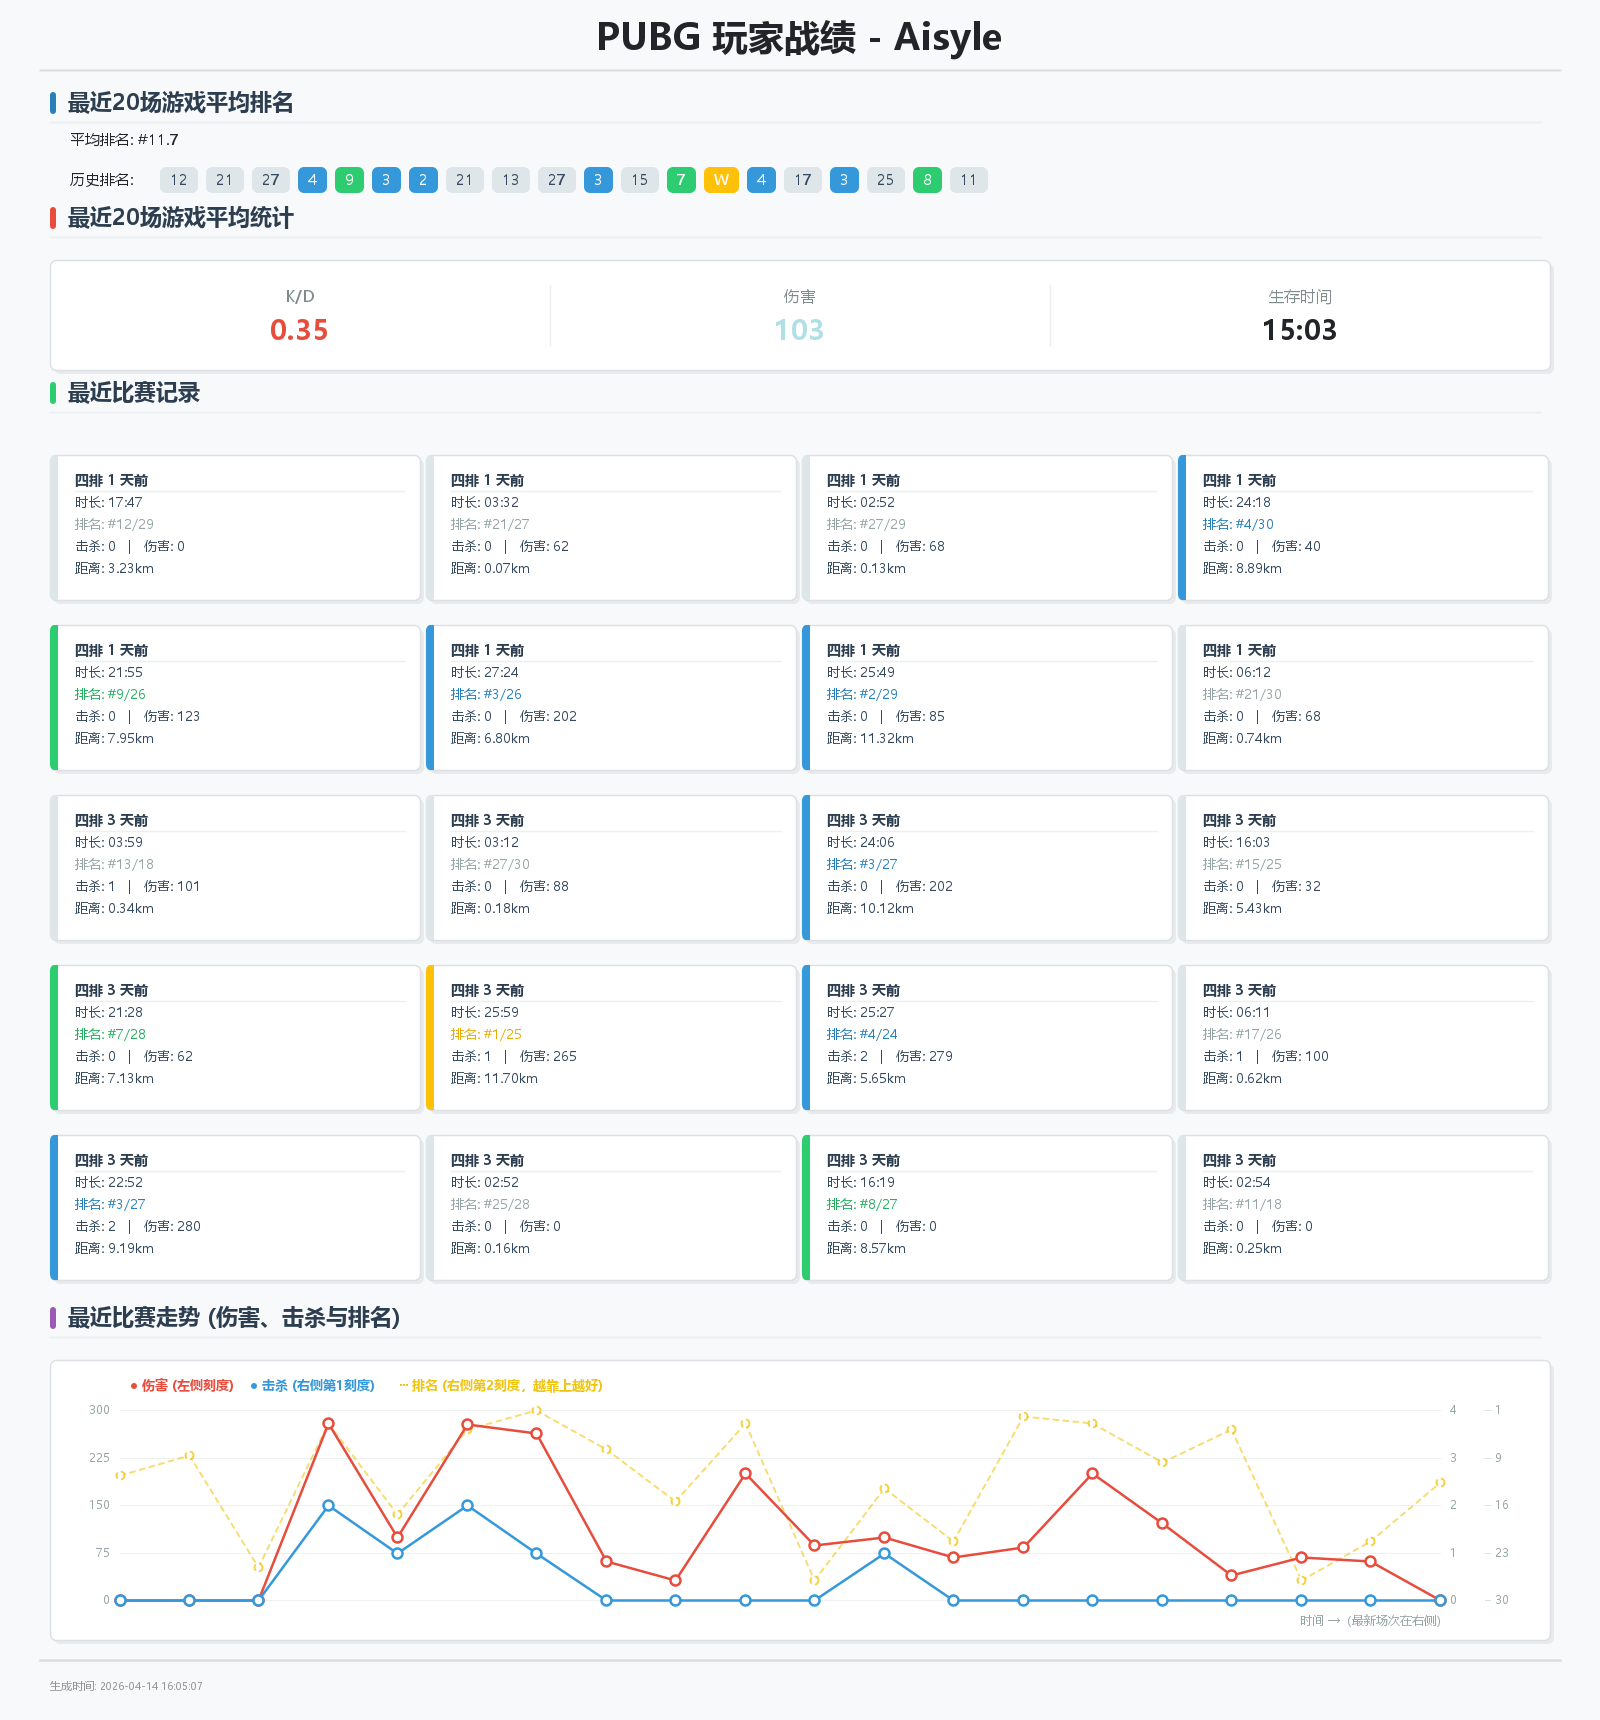
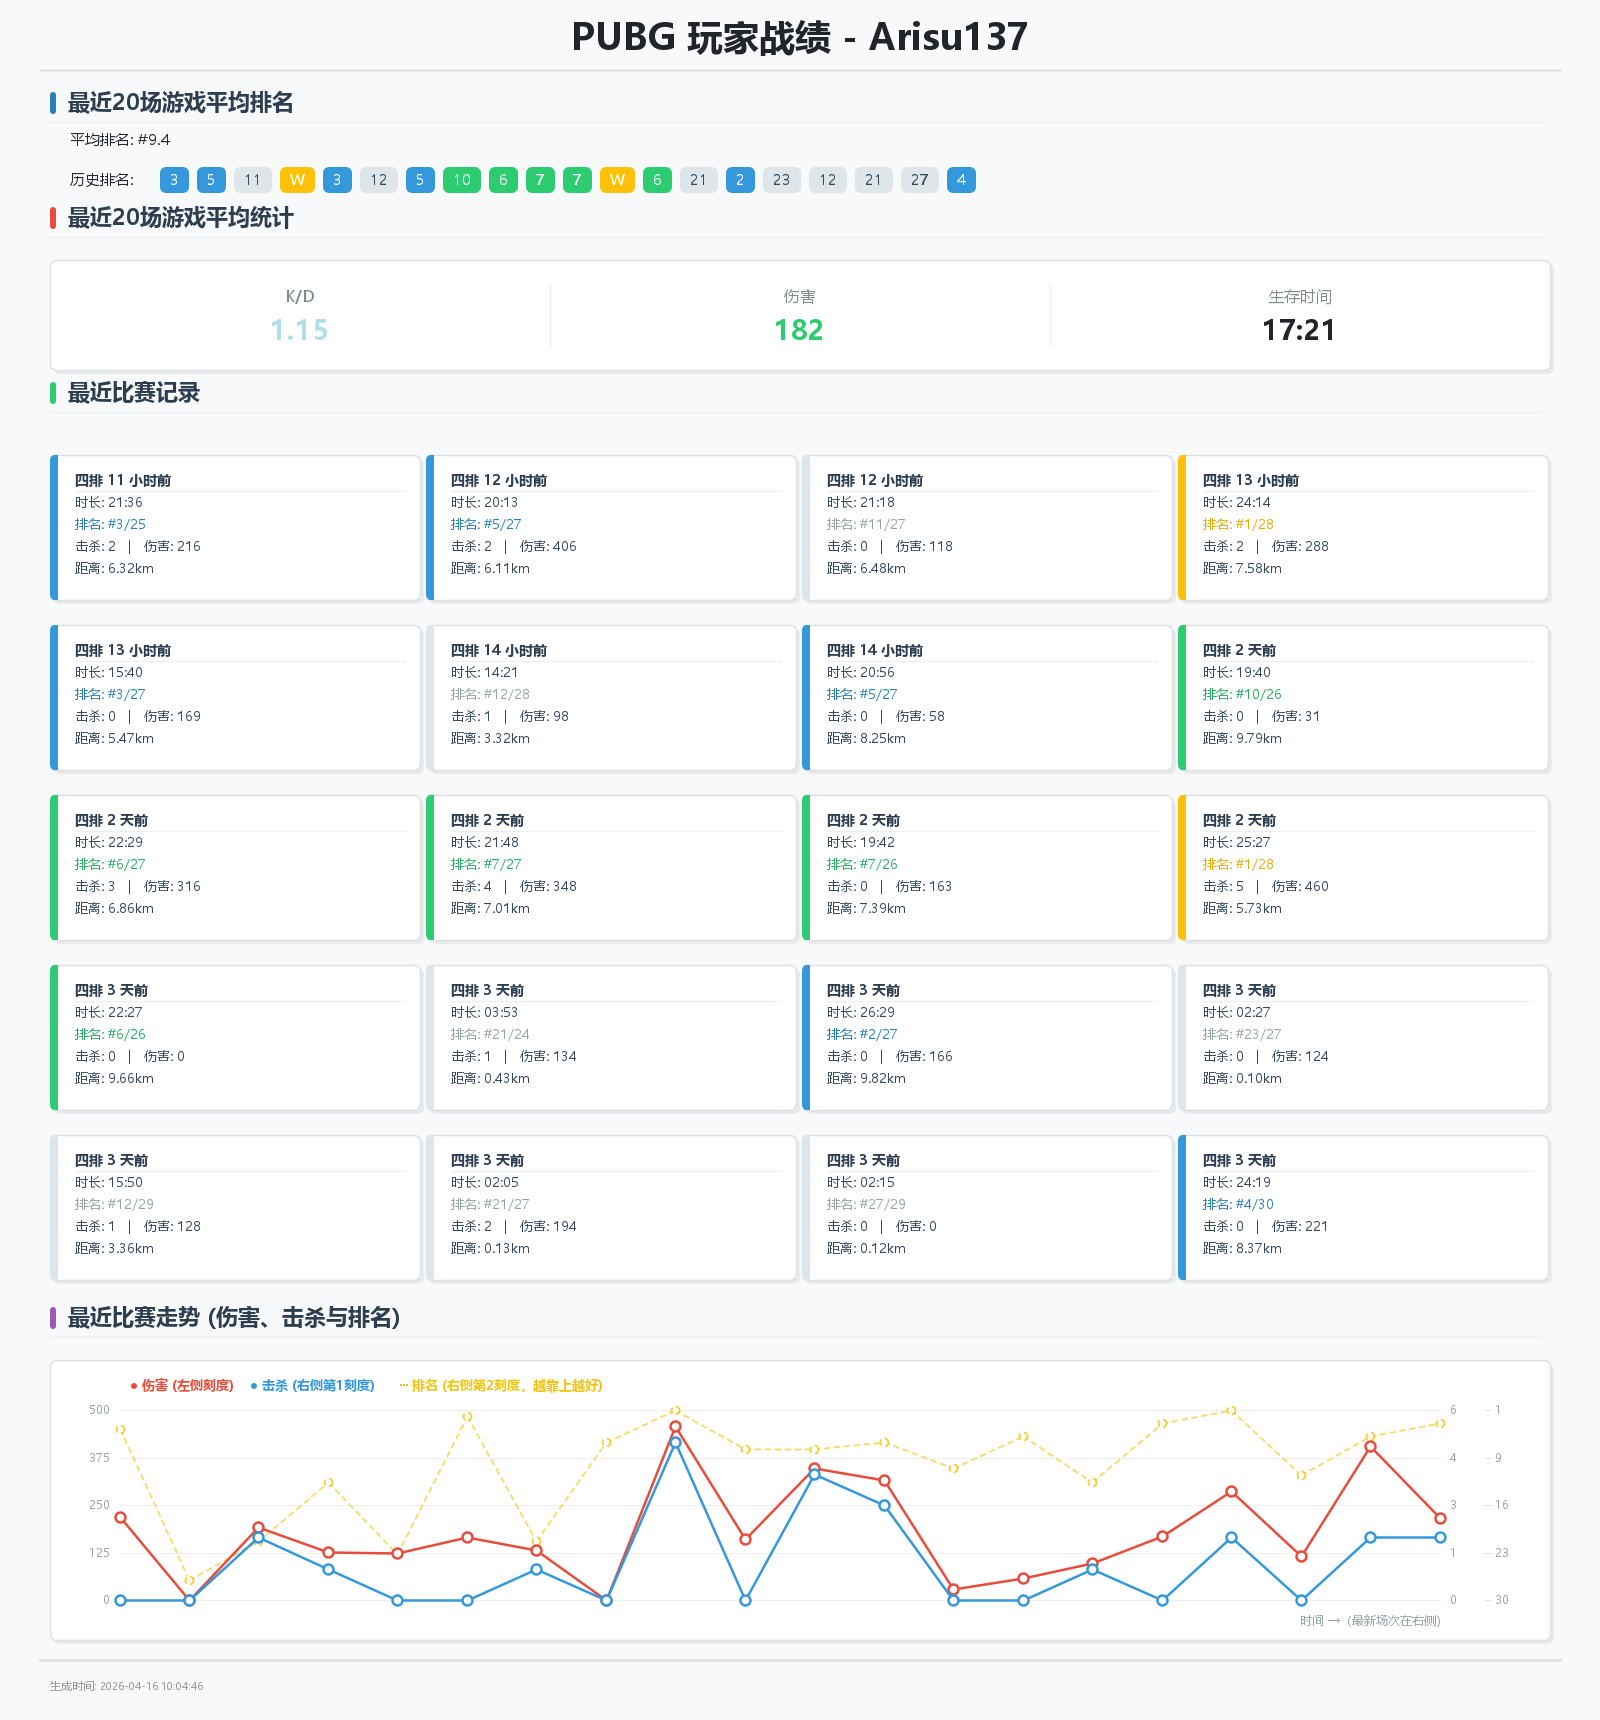
pubg战绩查询增加预刷新功能，SchHuman移除了发送文本功能

diff --git a/src/main/java/LDS/Person/util/PubgGet/PubgUserInfoWithSelenium.java b/src/main/java/LDS/Person/util/PubgGet/PubgUserInfoWithSelenium.java
@@ -153,6 +153,44 @@ public class PubgUserInfoWithSelenium {
     }
 
     /**
+     * 页面打开后每秒轮询查找 renewBtn，找到后点击并等待页面刷新。
+     */
+    private static void pollAndClickRenewButton(WebDriver driver, int maxPollingSeconds) {
+        System.out.println("开始轮询查找 renewBtn 按钮...");
+
+        for (int i = 0; i < maxPollingSeconds; i++) {
+            try {
+                List<WebElement> renewButtons = driver.findElements(By.id("renewBtn"));
+                if (!renewButtons.isEmpty()) {
+                    WebElement renewBtn = renewButtons.get(0);
+                    if (renewBtn.isDisplayed() && renewBtn.isEnabled()) {
+                        renewBtn.click();
+                        System.out.println("已点击 renewBtn，等待页面刷新...");
+                        Thread.sleep(2500);
+                        return;
+                    }
+                }
+
+                Thread.sleep(1000);
+            } catch (InterruptedException e) {
+                Thread.currentThread().interrupt();
+                System.out.println("轮询 renewBtn 被中断，继续后续流程");
+                return;
+            } catch (Exception e) {
+                System.out.println("轮询 renewBtn 时出现异常，继续轮询: " + e.getMessage());
+                try {
+                    Thread.sleep(1000);
+                } catch (InterruptedException interruptedException) {
+                    Thread.currentThread().interrupt();
+                    return;
+                }
+            }
+        }
+
+        System.out.println("未检测到 renewBtn，继续后续流程");
+    }
+
+    /**
      * 生成PUBG用户信息图表
      */
     private static String generateAndSavePubgChart(PubgUserStats stats, String imgFolder) {
@@ -684,7 +722,7 @@ public class PubgUserInfoWithSelenium {
             // 配置Edge选项
             EdgeOptions options = new EdgeOptions();
             // 可选：添加无头模式（不显示浏览器窗口）
-            options.addArguments("--headless");
+            // options.addArguments("--headless");
             options.addArguments("--no-sandbox");
             options.addArguments("--disable-dev-shm-usage");
             options.addArguments("--disable-blink-features=AutomationControlled");
@@ -695,6 +733,9 @@ public class PubgUserInfoWithSelenium {
             String url = BASE_URL + username;
             System.out.println("开始访问: " + url);
             driver.get(url);
+
+            // 页面打开后先轮询 renewBtn，若存在则点击触发刷新
+            pollAndClickRenewButton(driver, 30);
 
             // 等待页面加载完成（等待AWS WAF验证完成）
             // 等待challenge页面消失或数据加载完成
@@ -747,7 +788,7 @@ public class PubgUserInfoWithSelenium {
     public static void main(String[] args) {
         System.out.println("========== PUBG用户信息获取 (使用Selenium) ==========\n");
 
-        String username = "Yukiyuki_My_Wife";
+        String username = "Arisu137";
         System.out.println("正在获取用户: " + username);
         System.out.println("请耐心等待，浏览器会自动打开并完成验证...\n");
 

diff --git a/src/main/java/LDS/Person/tasks/MsgSchHumanTask.java b/src/main/java/LDS/Person/tasks/MsgSchHumanTask.java
@@ -82,23 +82,33 @@ public class MsgSchHumanTask {
                 System.out.println("[MsgSchTask] ！！！触发随机对话任务，当前时间: " + currentTime);
                 System.out.println("[MsgSchTask] lastGroupId = " + TaskFactory.getLastActiveGroupId());
 
-                // 50% 概率触发随机对话，50% 概率触发随机图片
-                boolean sendChat = random.nextBoolean();
-                if (sendChat) {
-                    // 触发随机对话
-                    System.out.println("[MsgSchTask]  选择发送随机对话");
-                    randomChatLogic.generateAndSendRandomChat();
+                // 50% 概率触发随机对话，50% 概率触发随机图片============================================
+                // boolean sendChat = random.nextBoolean();
+                // if (sendChat) {
+                // // 触发随机对话
+                // System.out.println("[MsgSchTask] 选择发送随机对话");
+                // randomChatLogic.generateAndSendRandomChat();
+                // } else {
+                // // 触发随机图片
+                // System.out.println("[MsgSchTask] 选择发送随机图片");
+                // String groupId = TaskFactory.getLastActiveGroupId();
+                // System.out.println("[MsgSchTask] 准备发送图片，groupId = " + groupId);
+                // if (groupId != null && !groupId.isEmpty()) {
+                // keywordTriggerLogic.triggerRandomImage(Long.parseLong(groupId));
+                // } else {
+                // System.out.println("[MsgSchTask] groupId 为空，跳过发送图片");
+                // }
+                // }
+                // 触发随机图片=========================================================================
+                System.out.println("[MsgSchTask]  选择发送随机图片");
+                String groupId = TaskFactory.getLastActiveGroupId();
+                System.out.println("[MsgSchTask] 准备发送图片，groupId = " + groupId);
+                if (groupId != null && !groupId.isEmpty()) {
+                    keywordTriggerLogic.triggerRandomImage(Long.parseLong(groupId));
                 } else {
-                    // 触发随机图片
-                    System.out.println("[MsgSchTask]  选择发送随机图片");
-                    String groupId = TaskFactory.getLastActiveGroupId();
-                    System.out.println("[MsgSchTask] 准备发送图片，groupId = " + groupId);
-                    if (groupId != null && !groupId.isEmpty()) {
-                        keywordTriggerLogic.triggerRandomImage(Long.parseLong(groupId));
-                    } else {
-                        System.out.println("[MsgSchTask]  groupId 为空，跳过发送图片");
-                    }
+                    System.out.println("[MsgSchTask]  groupId 为空，跳过发送图片");
                 }
+
             }
 
         } catch (Exception e) {
